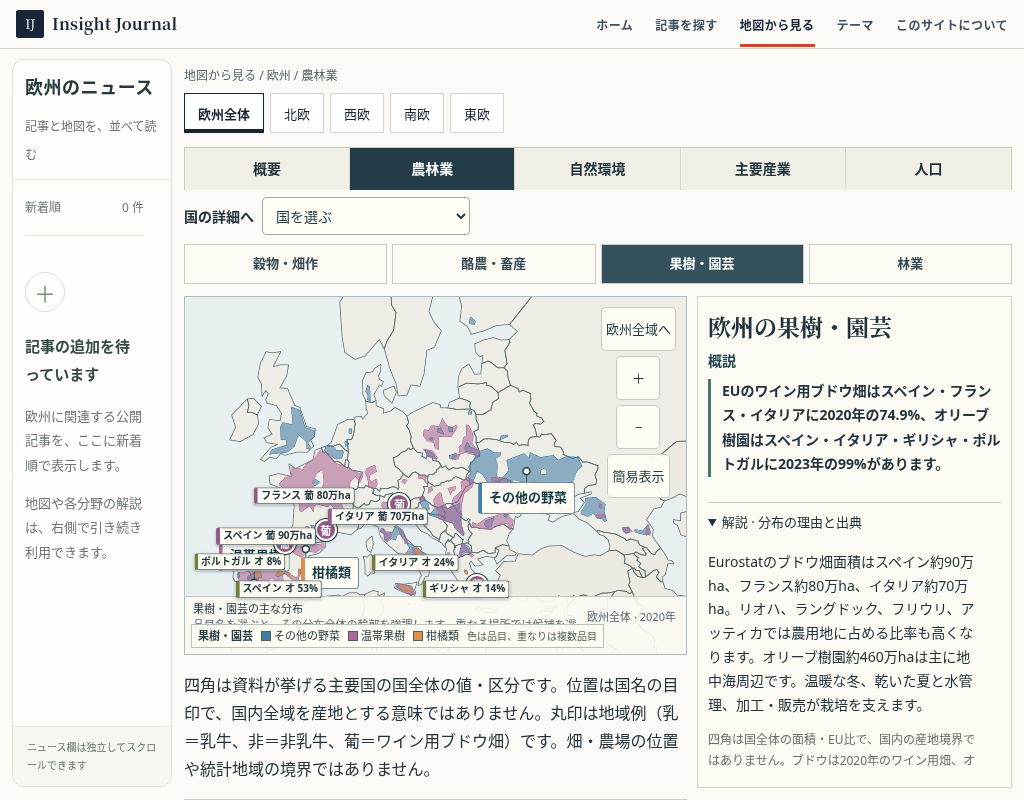
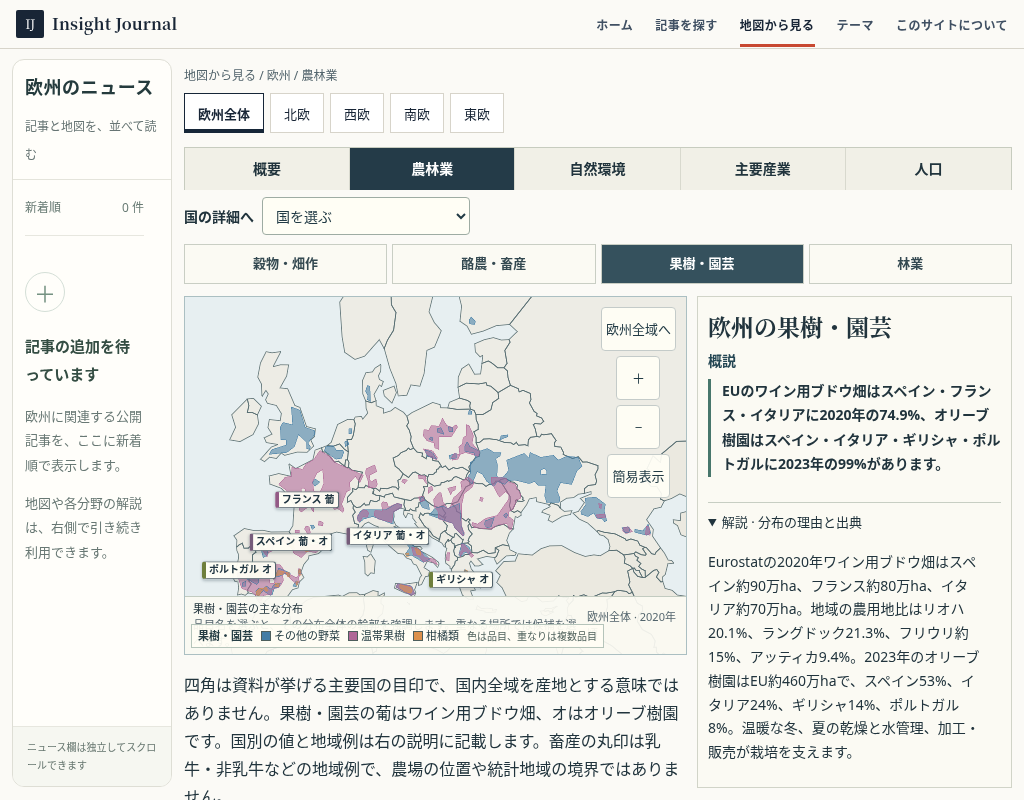
Reduce Europe fruit map labels and preserve distribution

diff --git a/src/data/atlas/europe/farming-regional-evidence.ts b/src/data/atlas/europe/farming-regional-evidence.ts
@@ -21,13 +21,11 @@ export const europeFarmingCountryEvidence = [
   {id:'suckler-es',genre:'livestock',kind:'suckler-country',name:'スペイン',coordinates:[-3.7,40.1],value:'繁殖母牛',detail:'2016年の肉用繁殖母牛主要4か国の一つ。'},
   {id:'suckler-uk',genre:'livestock',kind:'suckler-country',name:'英国',coordinates:[-3.4,56.8],value:'繁殖母牛',detail:'2016年、英国がEU加盟国だった当時の肉用繁殖母牛主要4か国の一つ。'},
   {id:'suckler-ie',genre:'livestock',kind:'suckler-country',name:'アイルランド',coordinates:[-7.1,52.9],value:'繁殖母牛',detail:'2016年の肉用繁殖母牛主要4か国の一つ。2020年の非乳牛の地域値とは別の指標。'},
-  {id:'vines-es',genre:'horticulture',kind:'vines-country',name:'スペイン',coordinates:[-5.0,43.0],value:'葡 90万ha',detail:'2020年のワイン用ブドウ畑の国全体の面積、概数。'},
-  {id:'vines-fr',genre:'horticulture',kind:'vines-country',name:'フランス',coordinates:[0.2,46.9],value:'葡 80万ha',detail:'2020年のワイン用ブドウ畑の国全体の面積、概数。'},
-  {id:'vines-it',genre:'horticulture',kind:'vines-country',name:'イタリア',coordinates:[10.2,44.9],value:'葡 70万ha',detail:'2020年のワイン用ブドウ畑の国全体の面積、概数。'},
-  {id:'olives-es',genre:'horticulture',kind:'olives-country',name:'スペイン',coordinates:[-3.3,37.5],value:'オ 53%',detail:'2023年のEUオリーブ樹園面積に占めるスペイン国全体の割合。'},
-  {id:'olives-it',genre:'horticulture',kind:'olives-country',name:'イタリア',coordinates:[15.2,40.3],value:'オ 24%',detail:'2023年のEUオリーブ樹園面積に占めるイタリア国全体の割合。'},
-  {id:'olives-gr',genre:'horticulture',kind:'olives-country',name:'ギリシャ',coordinates:[22.1,37.5],value:'オ 14%',detail:'2023年のEUオリーブ樹園面積に占めるギリシャ国全体の割合。'},
-  {id:'olives-pt',genre:'horticulture',kind:'olives-country',name:'ポルトガル',coordinates:[-8.6,40.4],value:'オ 8%',detail:'2023年のEUオリーブ樹園面積に占めるポルトガル国全体の割合。'},
+  {id:'produce-es',genre:'horticulture',kind:'vines-olives-country',name:'スペイン',coordinates:[-1.7,42.4],value:'葡・オ',detail:'2020年のワイン用ブドウ畑と2023年のオリーブ樹園の主要国。値と分母は右の説明に記載。'},
+  {id:'produce-fr',genre:'horticulture',kind:'vines-country',name:'フランス',coordinates:[0.5,46.5],value:'葡',detail:'2020年のワイン用ブドウ畑の主要国。値と分母は右の説明に記載。'},
+  {id:'produce-it',genre:'horticulture',kind:'vines-olives-country',name:'イタリア',coordinates:[11.5,43.0],value:'葡・オ',detail:'2020年のワイン用ブドウ畑と2023年のオリーブ樹園の主要国。値と分母は右の説明に記載。'},
+  {id:'produce-pt',genre:'horticulture',kind:'olives-country',name:'ポルトガル',coordinates:[-8.7,39.5],value:'オ',detail:'2023年のオリーブ樹園の主要国。値と分母は右の説明に記載。'},
+  {id:'produce-gr',genre:'horticulture',kind:'olives-country',name:'ギリシャ',coordinates:[21.5,38.5],value:'オ',detail:'2023年のオリーブ樹園の主要国。値と分母は右の説明に記載。'},
 ] as const;
 
 export const europeFarmingCountrySources = {

diff --git a/src/lib/atlas-europe-explorer.ts b/src/lib/atlas-europe-explorer.ts
@@ -199,7 +199,7 @@ export function initEuropeAtlas() {
     return {x:point.x-rect.left,y:point.y-rect.top};
   };
   const pewMarkers=createEuropePewMarkers(stage,selectCountry);
-  const regionalEvidence=[...europeFarmingRegionalEvidence,...europeFarmingCountryEvidence].map(item=>{
+  const regionalEvidence=[...europeFarmingRegionalEvidence.filter(item=>item.genre!=='horticulture'),...europeFarmingCountryEvidence].map(item=>{
     const node=document.createElement('span');
     const country='value' in item;
     node.className=country?'eu-farming-country-evidence':'eu-farming-regional-evidence';node.dataset.euFarmingEvidence=item.id;node.dataset.kind=item.kind;
@@ -234,7 +234,7 @@ export function initEuropeAtlas() {
     root!.style.setProperty('--eu-reader-height',`${Math.max(220,window.innerHeight-top-12)}px`);
   }
   const annotations=createEuropeAnnotations(stage,cities,features,
-    ()=>({climate:climateReader(),crops:farmingView().active,farmingIds:farmingView().visible.map(item=>item.id),selectedFarming:farmingView().item?.id,city:state.city,feature:state.feature,featureLabelIds:subject().field==='industry'?(state.industryGroup?industryEmphasized():[...europeIndustryOverviewLabels]):subject().field==='population'&&!cultureActive()?config.populationCities.filter(city=>['ロンドン','パリ','モスクワ','ローマ'].includes(city.name)).map(city=>city.id):undefined,detailed:map&&liveMap.classList.contains('is-ready')?map.getBounds().getEast()-map.getBounds().getWest()<60:box[2]<frame.width*.65,emphasizedFeatures:industryEmphasized(),places:cultureActive()&&!state.cultureCase?(state.layer==='religion'?europeReligionRegionalEvidence.filter(item=>item.id===state.feature):europeCultureOverviewPlaces.filter(item=>item.id.startsWith('ethnicity-'))):visibleFeatures().filter(p=>featureVisible(p.id))}),
+    ()=>({climate:climateReader(),crops:farmingView().active,farmingIds:farmingView().genre==='horticulture'&&!farmingView().item?[]:farmingView().visible.map(item=>item.id),selectedFarming:farmingView().item?.id,city:state.city,feature:state.feature,featureLabelIds:subject().field==='industry'?(state.industryGroup?industryEmphasized():[...europeIndustryOverviewLabels]):subject().field==='population'&&!cultureActive()?config.populationCities.filter(city=>['ロンドン','パリ','モスクワ','ローマ'].includes(city.name)).map(city=>city.id):undefined,detailed:map&&liveMap.classList.contains('is-ready')?map.getBounds().getEast()-map.getBounds().getWest()<60:box[2]<frame.width*.65,emphasizedFeatures:industryEmphasized(),places:cultureActive()&&!state.cultureCase?(state.layer==='religion'?europeReligionRegionalEvidence.filter(item=>item.id===state.feature):europeCultureOverviewPlaces.filter(item=>item.id.startsWith('ethnicity-'))):visibleFeatures().filter(p=>featureVisible(p.id))}),
     coordinate=>overlayProject(coordinate as [number,number]),(kind,id)=>kind==='city'?selectCity(id):kind==='crop'?setLayer(id):selectFeature(id),farmingItems,cultureOverview.decorate);
   const precipitationLabels=precipitationLineLabels.map(label=>{
     const node=document.createElement('span');node.className='eu-precipitation-line-label';

diff --git a/src/lib/atlas-europe-reader.ts b/src/lib/atlas-europe-reader.ts
@@ -196,8 +196,8 @@ export function europeReaderCopy(layer:EuropeLayer) {
   };
   if(layer.id==='horticulture')return {
     title:'欧州の果樹・園芸',takeaway:'EUのワイン用ブドウ畑はスペイン・フランス・イタリアに2020年の74.9%、オリーブ樹園はスペイン・イタリア・ギリシャ・ポルトガルに2023年の99%があります。',
-    body:'Eurostatのブドウ畑面積はスペイン約90万ha、フランス約80万ha、イタリア約70万ha。リオハ、ラングドック、フリウリ、アッティカでは農用地に占める比率も高くなります。オリーブ樹園約460万haは主に地中海周辺です。温暖な冬、乾いた夏と水管理、加工・販売が栽培を支えます。',
-    note:'四角は国全体の面積・EU比で、国内の産地境界ではありません。ブドウは2020年のワイン用畑、オリーブは2023年の樹園面積で、収穫量ではありません。丸印はブドウ畑の地域例です。色面はSPAM 2020の柑橘・温帯果樹・VEGE集合区分で、ブドウ・オリーブ単独の元格子は未収録です。EUの対象を欧州全域と読み替えません。',
+    body:'Eurostatの2020年ワイン用ブドウ畑はスペイン約90万ha、フランス約80万ha、イタリア約70万ha。地域の農用地比はリオハ20.1%、ラングドック21.3%、フリウリ約15%、アッティカ9.4%。2023年のオリーブ樹園はEU約460万haで、スペイン53%、イタリア24%、ギリシャ14%、ポルトガル8%。温暖な冬、夏の乾燥と水管理、加工・販売が栽培を支えます。',
+    note:'地図の四角は主要国の目印です。国別の2020年ワイン用ブドウ畑面積、2023年オリーブ樹園面積は国内の産地境界や収穫量ではありません。細かい地域例は右の説明に記載。色面はSPAM 2020の柑橘・温帯果樹・VEGE集合区分で、ブドウ・オリーブ単独の元格子は未収録です。EUの対象を欧州全域と読み替えません。',
   };
   if(layer.id==='water')return {
     title:'河川・湖',takeaway:'ドナウ川は中欧から黒海へ、ライン川はアルプス方面から北海へ流れ、北欧には多数の湖が分布します。',

diff --git a/src/styles/atlas-europe-workspace.css b/src/styles/atlas-europe-workspace.css
@@ -501,6 +501,7 @@
 .eu-workspace-root[data-europe-detail] .eu-farming-country-evidence strong { font-size:10px; }
 .eu-workspace-root[data-europe-detail] .eu-farming-country-evidence[data-kind="suckler-country"] { border-left-color:#9c6547; }
 .eu-workspace-root[data-europe-detail] .eu-farming-country-evidence[data-kind="vines-country"] { border-left-color:#935a86; }
+.eu-workspace-root[data-europe-detail] .eu-farming-country-evidence[data-kind="vines-olives-country"] { border-left-color:#765c7a; }
 .eu-workspace-root[data-europe-detail] .eu-farming-country-evidence[data-kind="olives-country"] { border-left-color:#6f7f3b; }
 .eu-workspace-root[data-europe-detail] .eu-terrain-place-label { position:absolute; z-index:2; transform:translate(-50%,-50%); padding:2px 4px; background:#fffef4df; color:#413e36; font:700 12px/1.25 var(--sans); text-shadow:0 1px #fff; pointer-events:none; white-space:nowrap; }
 .eu-workspace-root[data-europe-detail] .eu-terrain-name-options { display:flex; gap:6px; padding:7px 0; }
